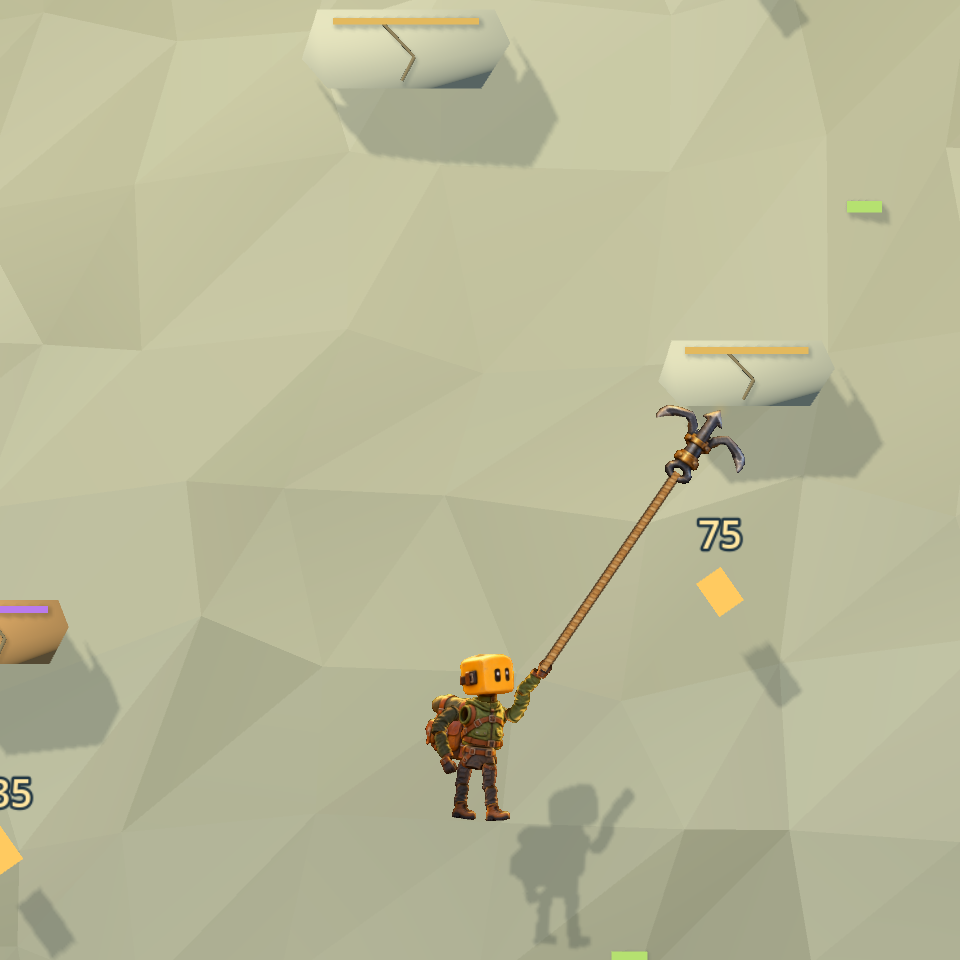
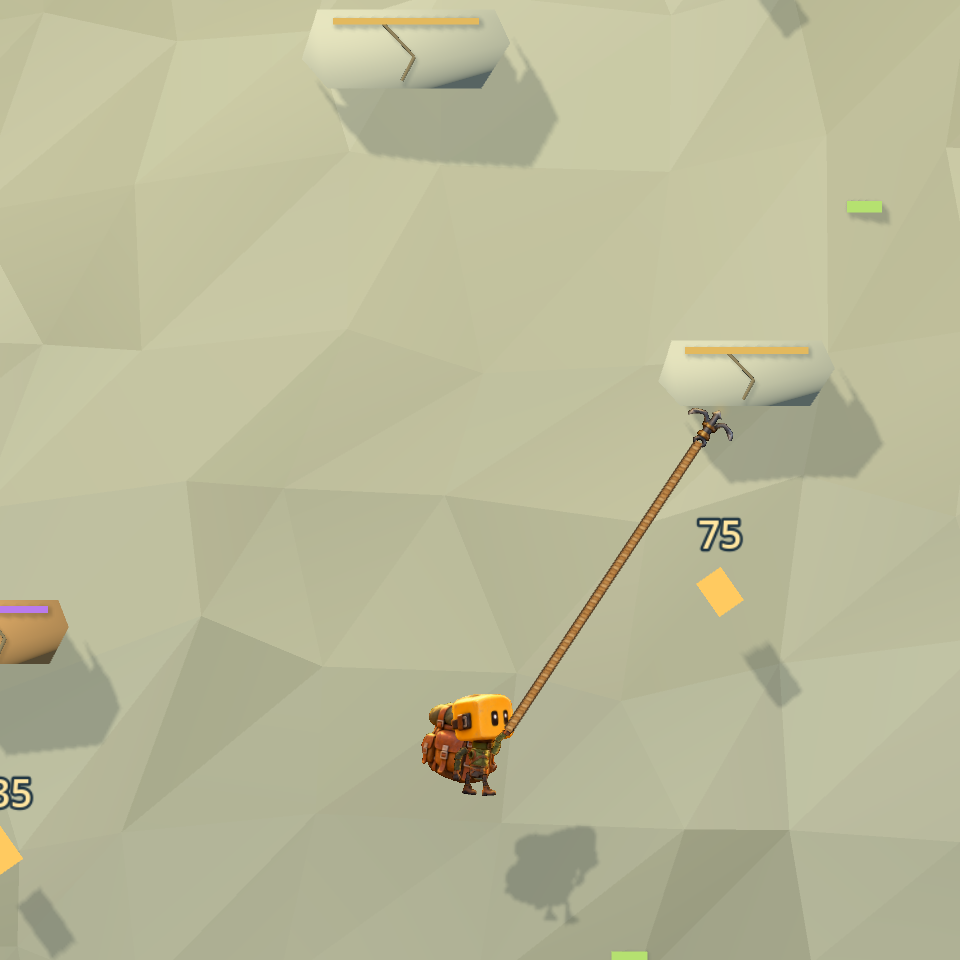
Adjust explorer proportions and halve hook size

diff --git a/docs/MODELS.md b/docs/MODELS.md
@@ -1,12 +1,14 @@
 # Персонаж, верёвка и крюк
 
-Версия 0.10.0 использует оригинальные изображения из `game/assets/art/modular-pack-v1/`. Исходный набор целиком хранится в Git; окружение из него пока не подменяет процедурную гору.
+Версия 0.10.1 использует оригинальные изображения из `game/assets/art/modular-pack-v1/`. Исходный набор целиком хранится в Git; окружение из него пока не подменяет процедурную гору.
 
 ## Персонаж
 
 `game/scripts/explorer_rig.gd` собирает Sprite3D из AtlasTexture. Голова, торс, таз, плечи, предплечья, кисти, бёдра, голени и ботинки используют отдельные области листа. Рюкзак — отдельное изображение за торсом. Прозрачные поля исходных картинок учитываются в масштабе и точках вращения.
 
 Плечо → локоть → кисть и бедро → колено → стопа образуют цепочки суставов. Рука, держащая канат, использует решение двухзвенной цепи: локоть сгибается, кисть направлена к крюку. Дальняя рука балансирует движение. Ноги реагируют на скорость и состояние на земле. Разворот зеркалит весь риг, включая рюкзак. При моргании меняется текстура головы. Физика и коллайдер остаются прежними.
+
+В 0.10.1 силуэт стал почти квадратным: голова 0,54 единицы, торс 0,22, короткие руки и ноги. Рюкзак со скаткой сопоставим с полным ростом персонажа. Точки суставов, покой рук и положение хвата пересчитаны под новые пропорции.
 
 ## Канат
 
@@ -17,6 +19,8 @@
 ## Крюк
 
 Исходный `hook-head.png` используется без создания новых растровых вариантов. Полигональные UV-маски выделяют центральный стержень с наконечником и два боковых зубца. Уровень 1 показывает центральный, уровень 2 добавляет один боковой, уровень 3 — второй. Число видимых наконечников совпадает с купленным уровнем. Крюк направлен вдоль каната и виден в полёте и после зацепа.
+
+В 0.10.1 весь узел крюка масштабирован до 50 % от прежнего размера. Кольцо и все купленные зубцы уменьшаются вместе; конец каната вычисляется через глобальное преобразование кольца.
 
 Для персонажа, рюкзака, крюка и плетёной поверхности включены mipmaps. Нужные PNG и AtlasTexture разрешены фильтром экспорта, поэтому готовые EXE/APK содержат их. Старый профиль версии 3, цены, длина каната, сила броска и ширина зацепа не изменены.
 

diff --git a/07_prototype_status.md b/07_prototype_status.md
@@ -1,6 +1,10 @@
-# Last Hook — статус версии 0.10.0
+# Last Hook — статус версии 0.10.1
 
 Дата: 9 октября 2026 года. Движок Godot 4.7.2, Windows x64 и Android ARM64.
+
+## Изменения 0.10.1
+
+Персонаж стал компактным и почти квадратным по силуэту: голова увеличена, корпус и конечности укорочены, рост близок к рюкзаку. Весь наконечник крюка уменьшен вдвое; крепление каната к кольцу учитывает новый масштаб.
 
 ## Изменения 0.10
 
@@ -37,7 +41,7 @@
 - Пять размеров окна: 486×864, 432×960, 800×800, 1280×800, 1600×720. Проверены заполнение окна, границы лобби, проекция прицела, клики после изменения размера, защита рюкзака от выстрела, пауза и число зубцов в полёте/на канате.
 - Полное восхождение ботом на трёх seed с базовым оснащением, а также со средним и максимальным. Поражение за экраном, одноразовые опоры и восстановление попыток проходят прежние проверки.
 - Визуально проверены портретное, вытянутое, квадратное и широкое окна, лобби, игровой экран и результат. Кадры из движка находятся в `docs/screenshots/`.
-- `Builds/Windows/LastHook.exe`: версия 0.10.0. `Builds/Android/LastHook-debug.apk`: версия 0.10.0, versionCode 10. APK выровнен, подписан прежним тестовым ключом и проверен сборочным скриптом.
+- `Builds/Windows/LastHook.exe`: версия 0.10.1. `Builds/Android/LastHook-debug.apk`: версия 0.10.1, versionCode 11. APK выровнен, подписан прежним тестовым ключом и проверен сборочным скриптом.
 
 Файлы отчётов — в `docs/validation/`. Локальные журналы и тестовые профили находятся в `artifacts/`, исключённом из Git.
 

diff --git a/README.md b/README.md
@@ -2,7 +2,7 @@
 
 Игра для Android и Windows на Godot 4.7.2. Цепляйся крюком, раскачивайся и перелетай между опорами. Большинство опор исчезает после отцепления; проигрыш наступает, когда герой полностью падает ниже экрана.
 
-Текущая версия: **0.10.0**.
+Текущая версия: **0.10.1**.
 
 ## Играть
 
@@ -26,6 +26,11 @@
 | Удержать ячейку рюкзака | Выбросить предмет |
 
 На телефоне первый палец отвечает за прицел и раскачку. Второй палец: движение вверх/вниз меняет канат, короткий тап отпускает его.
+
+## Что изменилось в 0.10.1
+
+- Компактный персонаж с большой головой, маленьким телом и короткими конечностями, ростом примерно с рюкзак.
+- Наконечник крюка вдвое меньше; канат соединён с его кольцом.
 
 ## Что изменилось в 0.10
 
